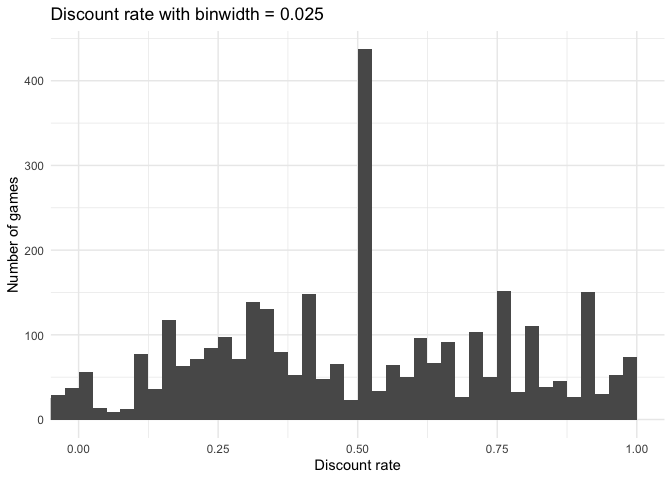
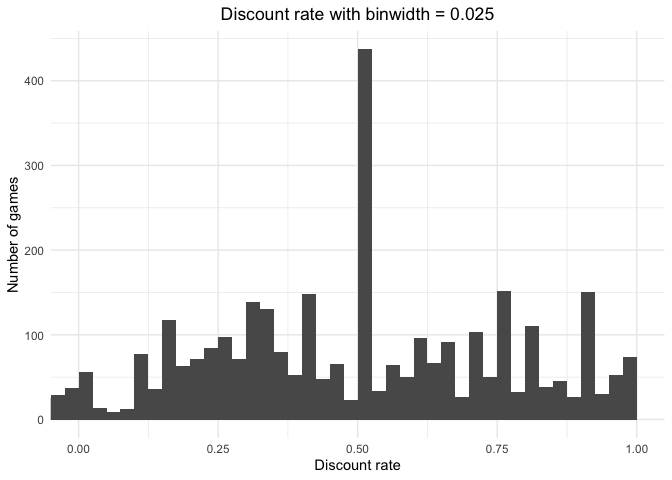
1

Changed region(s): [[0.0625, 0.0, 0.75, 0.0625]]

diff --git a/mini-project-2.md b/mini-project-2.md
@@ -225,7 +225,8 @@ ggplot(st_games, aes(x = release_year, y = original_price)) +
   labs(title = "Original price vs release year",
        x = "Release year",
        y = "Original price") +
-theme_minimal()
+theme_minimal()+
+theme(plot.title = element_text(hjust = 0.5))
 ```
 
     ## Warning: Removed 6116 rows containing missing values or values outside the scale range
@@ -262,7 +263,8 @@ ggplot(st_games, aes(x = discount_rate)) +
   coord_cartesian(xlim = c(0, 1)) +   
   labs(title = "Discount rate with binwidth = 0.05",
        x = "Discount rate", y = "Number of games") +
-  theme_minimal()
+  theme_minimal()+
+  theme(plot.title = element_text(hjust = 0.5))
 ```
 
     ## Warning: Removed 28739 rows containing non-finite outside the scale range
@@ -277,7 +279,8 @@ ggplot(st_games, aes(x = discount_rate)) +
   coord_cartesian(xlim = c(0, 1)) +
   labs(title = "Discount rate with binwidth = 0.025",
        x = "Discount rate", y = "Number of games") +
-  theme_minimal()
+  theme_minimal()+
+  theme(plot.title = element_text(hjust = 0.5))
 ```
 
     ## Warning: Removed 28739 rows containing non-finite outside the scale range
@@ -292,7 +295,8 @@ ggplot(st_games, aes(x = discount_rate)) +
   coord_cartesian(xlim = c(0, 1)) +
   labs(title = "Discount rate with binwidth = 0.01",
        x = "Discount rate", y = "Number of games") +
-  theme_minimal()
+  theme_minimal()+
+  theme(plot.title = element_text(hjust = 0.5))
 ```
 
     ## Warning: Removed 28739 rows containing non-finite outside the scale range
@@ -303,6 +307,61 @@ ggplot(st_games, aes(x = discount_rate)) +
 **I think the best bin width would be 0.025, as it’s very clear to read
 the discount rate and the columns are not that thin or fat, which
 clearly shows the difference in numbers of games.**
+
+**Research question3: Do original and discount prices move together?**
+
+``` r
+# Create a categorical variable with 3 or more groups from an existing numerical variable. 
+# We can turn original_price into a price bucket.
+
+# This idea comes from Chat-GPT, because I am confused to the difference between this research question and the previous one, but anyway, I only refer the idea, codes are written by myself.
+
+st_games <- st_games %>%
+  mutate(price_bucket = case_when(
+    original_price < 10 ~ "$0–10",
+    original_price < 20 ~ "$10–20",
+    original_price < 50 ~ "$20–50",
+    original_price < 100  ~ "$50–100",
+    original_price >= 100 ~ "$100+",
+    TRUE ~ NA_character_))
+st_games <- st_games %>% #order the price buckets to make the data tidy
+  mutate(price_bucket = factor(price_bucket,levels = c("$0–10", "$10–20", "$20–50", "$50–100", "$100+")))
+q3_summary <- st_games %>%
+  count(price_bucket) 
+q3_summary
+```
+
+    ## # A tibble: 6 × 2
+    ##   price_bucket     n
+    ##   <fct>        <int>
+    ## 1 $0–10        26675
+    ## 2 $10–20        5424
+    ## 3 $20–50        2238
+    ## 4 $50–100        598
+    ## 5 $100+          545
+    ## 6 <NA>          5353
+
+``` r
+# Create a graph that has at least two geom layers: Columns, texts.
+q3_plot <- st_games %>%
+  group_by(price_bucket) %>%
+  summarise(n = n(),
+            median_dp = median(discount_price, na.rm = TRUE))
+ggplot(q3_plot, aes(x = price_bucket, y = median_dp)) +
+  geom_col(width = 0.5, fill = "grey") +                        
+  geom_text(aes(label = paste0("$", format(round(median_dp, 2), ))),
+            vjust = -0.5, size = 3) +  # text vjust were debugged by GPT.                           
+  labs(title = "Median discounted price by original price bucket",
+       x = "Original price bucket",
+       y = "Median discounted price") +
+theme_minimal() +
+theme(plot.title = element_text(hjust = 0.5))
+```
+
+![](mini-project-2_files/figure-gfm/unnamed-chunk-7-1.png)<!-- -->
+
+**Do achievements relate to price?**
+
 <!----------------------------------------------------------------------------->
 
 ### 1.3 (2 points)
